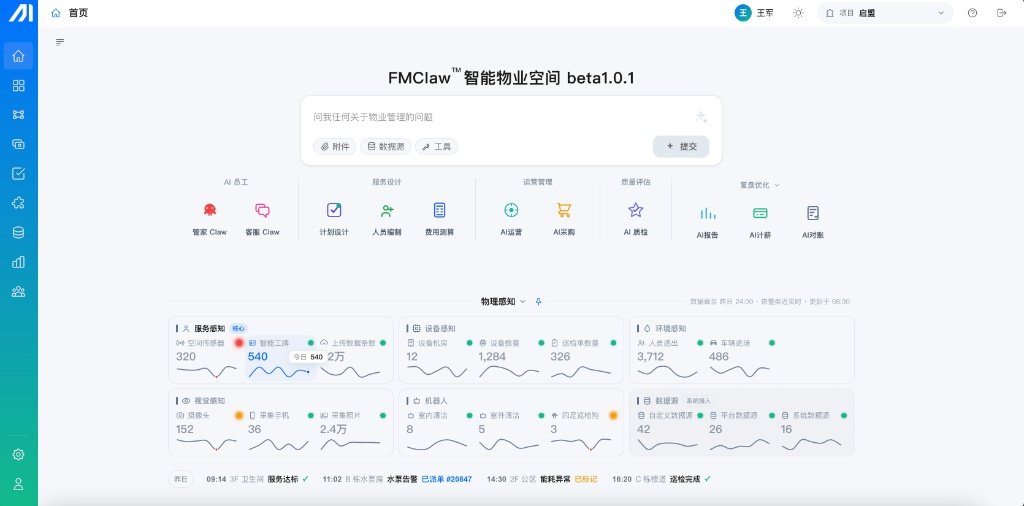
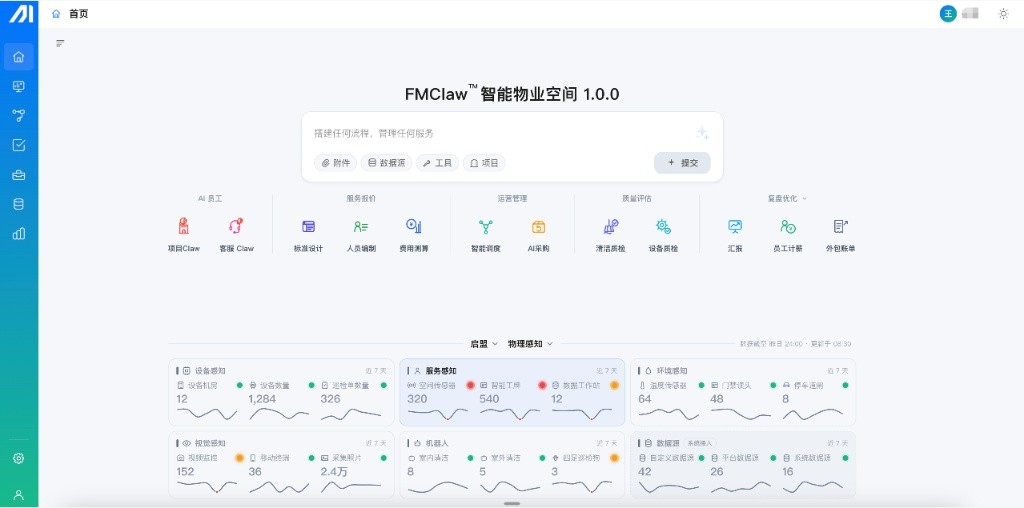
chore(fmclaw): 总览页产品截图更新为 1.0.0 正式版界面
- app-screenshot.jpg 替换为用户提供的 1.0.0 版界面（1024×508，51KB）
- 控制台标题 beta 1.0.1 → 1.0.0，尺寸与 alt 同步（新版含项目 Claw、项目标签、汇报/员工计薪/外包账单入口）
- 锚点标签「实时事件流」→「AI 对话入口」（新版截图不含底部事件流）

diff --git a/app/(site)/products/fmclaw/page.tsx b/app/(site)/products/fmclaw/page.tsx
@@ -223,20 +223,20 @@ export default function Page() {
           <figure className="fmo-console fmo-app">
             <div className="fmo-console-bar">
               <span className="fmo-dot" /><span className="fmo-dot" /><span className="fmo-dot" />
-              <span className="fmo-console-title">FMClaw™ 智能物业空间 · 真实产品界面（beta 1.0.1）</span>
+              <span className="fmo-console-title">FMClaw™ 智能物业空间 · 真实产品界面（1.0.0）</span>
             </div>
             <img
               src="/products/fmclaw/app-screenshot.jpg"
-              alt="FMClaw 智能物业空间真实界面：AI 对话入口与 AI 员工，下方为服务感知、设备感知、环境感知、视觉感知、机器人与数据接入六个物理感知面板及实时事件流"
+              alt="FMClaw 智能物业空间真实界面：AI 对话入口与 AI 员工，下方为设备感知、服务感知、环境感知、视觉感知、机器人与数据接入六个物理感知面板"
               width={1024}
-              height={506}
+              height={508}
               fetchPriority="high"
             />
             <figcaption className="fmo-app-anchors" aria-label="界面关键区域">
               <span><i aria-hidden="true" />物理感知 ×6 面板</span>
               <span><i aria-hidden="true" />数据接入</span>
               <span><i aria-hidden="true" />AI 员工</span>
-              <span><i aria-hidden="true" />实时事件流</span>
+              <span><i aria-hidden="true" />AI 对话入口</span>
             </figcaption>
           </figure>
         </div>